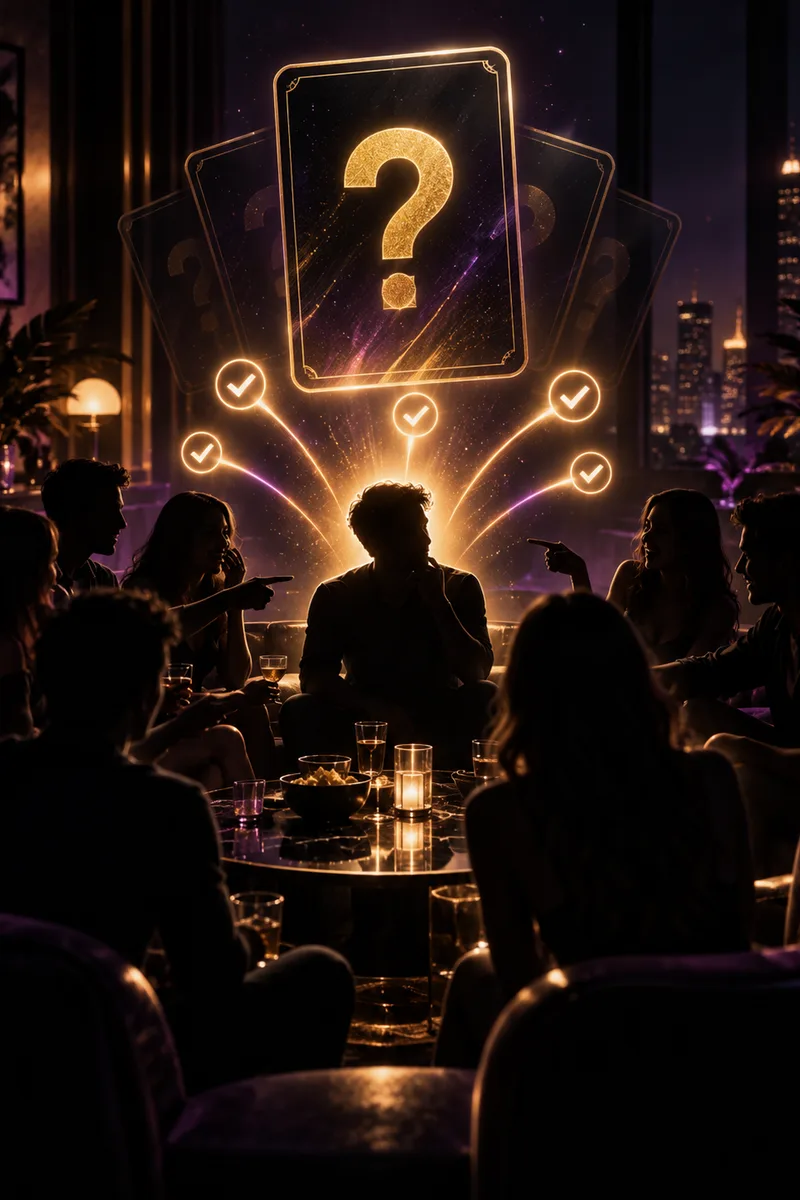
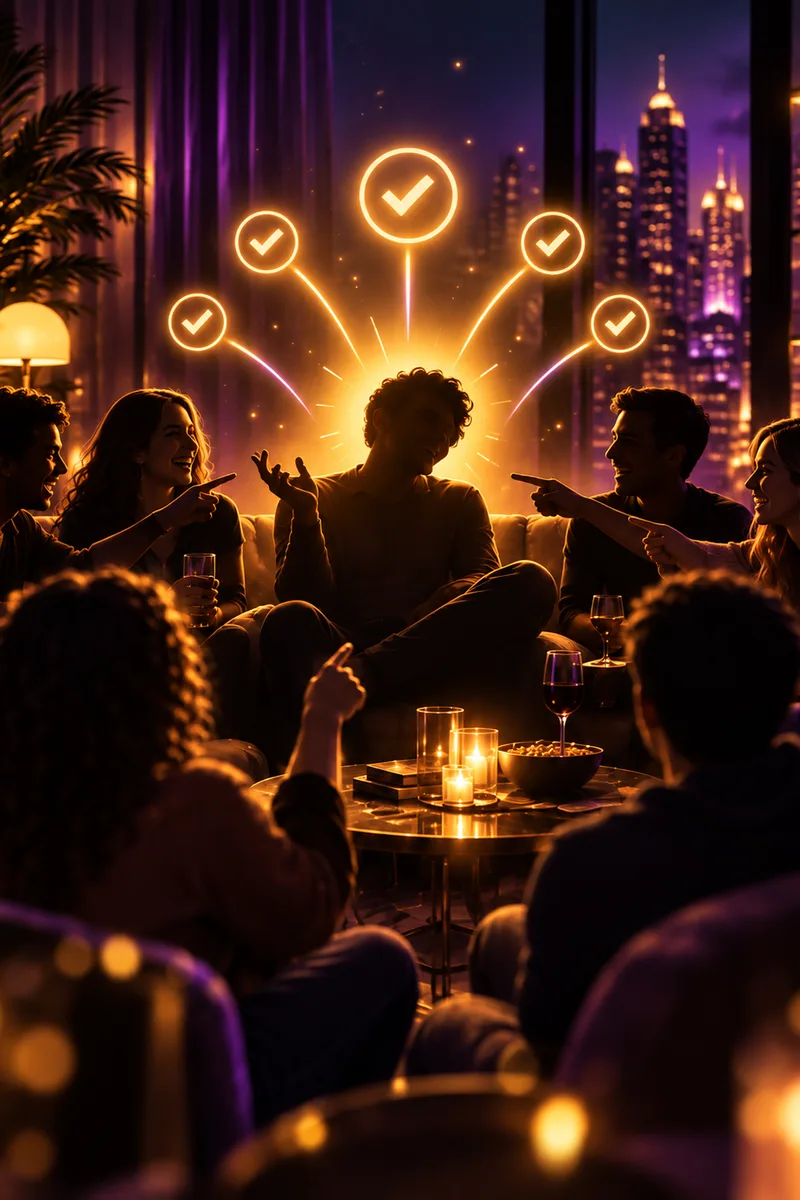
Swap the cover art and let the host open up who voted
Two things the table asked for after playing it.

The cover is the second piece of art — the room mid-accusation rather
than a card floating over it, which is the moment the game actually is.
Same treatment as before: 800x1200 webp, 80 KB, cropped on the sides so
the pointing hands survive. The theme now takes its palette from the art
it sits next to — gold for the light in the middle, violet for the room
around it — instead of the coral and teal picked before there was any
art to match. The per-category accent tint is gone with it: five accents
undo the one the cover just established, and nothing on screen names the
category anyway.

The other is a room setting. A round where the reveal names everybody who
pointed is a different evening from one where it only counts them, and
which evening it is belongs to the host, so `showVoters` is a normal room
setting and it is off by default.

Names are never in the projection while votes are being cast, in either
mode. Watching the accusations arrive live is a third game and not one
anybody asked for — the reveal is what makes the round worth playing.
With the setting off the field is absent rather than an empty list, so
there is nothing on the wire to count.

Claude-Session: https://claude.ai/code/session_01J7pMs7MJQroXNe7jF7opEA

diff --git a/src/client/themes/most-likely-to.css b/src/client/themes/most-likely-to.css
@@ -1,28 +1,30 @@
-/* ─── MOST LIKELY TO — party / accusation (coral + teal) ───────── */
+/* ─── MOST LIKELY TO — party / accusation (gold + violet) ─────── */
 
+/* Taken from the cover art: the gold of the question card, the violet of
+   the room behind it. */
 [data-theme="most-likely-to"] {
   --theme-bg: #120b16;
-  --theme-accent: #ff7a6b;        /* the pointing finger */
-  --theme-glow: #6fe9df;          /* the answer, once it opens */
-  --theme-surface: rgba(40, 20, 44, 0.7);
+  --theme-accent: #f0c257;        /* the question card */
+  --theme-glow: #b98cff;          /* the light in the room */
+  --theme-surface: rgba(40, 22, 48, 0.7);
   --theme-display: "Inter", system-ui, sans-serif;
   --theme-display-tracking: 0;
   --theme-display-transform: none;
 }
 
-/* Warm party glow, cooling towards the corners. */
+/* Warm centre, violet at the edges — the lighting of the cover. */
 [data-theme="most-likely-to"] .atmosphere {
   background-image:
-    radial-gradient(ellipse at 25% 15%, rgba(255, 122, 107, 0.12), transparent 55%),
-    radial-gradient(ellipse at 75% 85%, rgba(111, 233, 223, 0.08), transparent 55%),
-    radial-gradient(ellipse at 50% 50%, rgba(163, 128, 255, 0.05), transparent 70%);
+    radial-gradient(ellipse at 50% 15%, rgba(240, 194, 87, 0.10), transparent 55%),
+    radial-gradient(ellipse at 80% 80%, rgba(185, 140, 255, 0.09), transparent 55%),
+    radial-gradient(ellipse at 15% 65%, rgba(140, 90, 220, 0.06), transparent 70%);
 }
 
 [data-theme="most-likely-to"] .atmosphere::before {
   background:
-    radial-gradient(circle 260px at 12% 12%, rgba(255, 122, 107, 0.10), transparent),
-    radial-gradient(circle 240px at 88% 18%, rgba(111, 233, 223, 0.09), transparent),
-    radial-gradient(circle 240px at 18% 88%, rgba(163, 128, 255, 0.07), transparent);
+    radial-gradient(circle 260px at 12% 12%, rgba(185, 140, 255, 0.09), transparent),
+    radial-gradient(circle 240px at 88% 18%, rgba(240, 194, 87, 0.08), transparent),
+    radial-gradient(circle 240px at 18% 88%, rgba(185, 140, 255, 0.07), transparent);
   animation: mlt-lights 16s ease-in-out infinite;
 }
 
@@ -31,13 +33,9 @@
   50%      { opacity: 1;    transform: translate(-0.5%, 0.4%); }
 }
 
-/* The category tints the accent, so a round of Chaos does not look like a
-   round about school. The glow stays put — that is the reveal's colour. */
-[data-theme="most-likely-to"] .mlt[data-category="funny"]      { --theme-accent: #f3d77a; }
-[data-theme="most-likely-to"] .mlt[data-category="friendship"] { --theme-accent: #ff9ec4; }
-[data-theme="most-likely-to"] .mlt[data-category="school"]     { --theme-accent: #7ab6ff; }
-[data-theme="most-likely-to"] .mlt[data-category="daily"]      { --theme-accent: #8fe3a8; }
-[data-theme="most-likely-to"] .mlt[data-category="chaos"]      { --theme-accent: #ff7a6b; }
+/* The category is carried on `.mlt[data-category]` and deliberately not
+   painted: five accents would undo the one the cover just established, and
+   nothing on the screen names the category anyway. */
 
 @media (prefers-reduced-motion: reduce) {
   [data-theme="most-likely-to"] .atmosphere::before { animation: none; }

diff --git a/tests/e2e/most-likely-to.spec.ts b/tests/e2e/most-likely-to.spec.ts
@@ -125,3 +125,64 @@ test("most likely to: a phone that reloads mid-round comes back to the round", a
   await ctx.close()
   await hostCtx.close()
 })
+
+test("most likely to: the host can open the names up, and they stay shut until the reveal", async ({ browser }) => {
+  const hostCtx = await browser.newContext()
+  const hostPage = await hostCtx.newPage()
+  const code = await createRoom(hostPage, { theme: "most-likely-to", hostName: "Host", hostCharacter: "ace" })
+
+  const ctx = await browser.newContext()
+  const page = await ctx.newPage()
+  await joinAs(page, code, "Ada", "ruby")
+
+  // The setting is a plain room setting, so it is chosen before the game runs.
+  await hostPage.locator("#setting-showVoters").setChecked(true)
+  await hostPage.click("#saveSettingsBtn")
+  await expect(hostPage.locator("#setting-showVoters")).toBeChecked()
+
+  await hostPage.click("#startGameBtn")
+  await expect(page.locator(".mlt-target").first()).toBeVisible({ timeout: PHASE_TIMEOUT })
+
+  // Still being cast: nothing on screen says who has pointed where.
+  await page.locator(".mlt-target", { hasText: "Host" }).click()
+  await expect(page.locator(".mlt-bar-voters")).toHaveCount(0)
+
+  await hostPage.locator(".mlt-target", { hasText: "Ada" }).click()
+
+  // Opened: every row that took a vote names who cast it.
+  for (const p of [hostPage, page]) {
+    await expect(p.locator(".mlt-bars")).toBeVisible({ timeout: PHASE_TIMEOUT })
+    // Matched on the name cell: a plain hasText also hits the row whose voter
+    // line happens to mention the same person.
+    await expect(p.locator('.mlt-bar:has(.mlt-bar-name:text-is("Host")) .mlt-bar-voters')).toContainText("Ada")
+    await expect(p.locator('.mlt-bar:has(.mlt-bar-name:text-is("Ada")) .mlt-bar-voters')).toContainText("Host")
+  }
+
+  await ctx.close()
+  await hostCtx.close()
+})
+
+test("most likely to: with the setting off the reveal never names a voter", async ({ browser }) => {
+  const hostCtx = await browser.newContext()
+  const hostPage = await hostCtx.newPage()
+  const code = await createRoom(hostPage, { theme: "most-likely-to", hostName: "Host", hostCharacter: "ace" })
+
+  const ctx = await browser.newContext()
+  const page = await ctx.newPage()
+  await joinAs(page, code, "Ada", "ruby")
+
+  await expect(hostPage.locator("#setting-showVoters")).not.toBeChecked()
+  await hostPage.click("#startGameBtn")
+
+  await expect(page.locator(".mlt-target").first()).toBeVisible({ timeout: PHASE_TIMEOUT })
+  await page.locator(".mlt-target", { hasText: "Host" }).click()
+  await hostPage.locator(".mlt-target", { hasText: "Ada" }).click()
+
+  for (const p of [hostPage, page]) {
+    await expect(p.locator(".mlt-bars")).toBeVisible({ timeout: PHASE_TIMEOUT })
+    await expect(p.locator(".mlt-bar-voters")).toHaveCount(0)
+  }
+
+  await ctx.close()
+  await hostCtx.close()
+})

diff --git a/tests/unit/domain/most-likely-to.test.ts b/tests/unit/domain/most-likely-to.test.ts
@@ -312,12 +312,50 @@ describe("counting the round", () => {
     expect(result.results.every(r => r.percentage === 0)).toBe(true)
   })
 
+  it("says how many pointed and never who, unless the host asked for names", () => {
+    const secret = tally(resultRoom([["p1", "p2"], ["p3", "p2"]]))
+    expect(secret.results.every(r => r.voters === undefined)).toBe(true)
+    // The field is absent, not an empty list that leaks a count of nothing.
+    expect(JSON.stringify(secret)).not.toContain("voters")
+  })
+
+  it("names the voters once the host turns showVoters on", () => {
+    const room = resultRoom([["p1", "p2"], ["p3", "p2"], ["p2", "p1"]])
+    const named = tally({ ...room, settings: { ...room.settings, showVoters: true } })
+
+    const byId = new Map(named.results.map(r => [r.playerId, r.voters]))
+    expect(byId.get("p2")).toEqual(["Ali", "Morinji"])
+    expect(byId.get("p1")).toEqual(["Mahmud"])
+    // Everybody carries the field, so a nil row is an empty list, not a gap.
+    expect(byId.get("p3")).toEqual([])
+  })
+
   it("drops a vote cast for somebody who has since left the room", () => {
     const room = resultRoom([["p1", "p2"], ["p3", "gone"]])
     const result = tally(room)
 
     expect(result.totalVotes).toBe(1)
     expect(result.winnerPlayerIds).toEqual(["p2"])
+  })
+})
+
+describe("names stay sealed until the reveal", () => {
+  it("keeps the voters out of the voting screen even with showVoters on", async () => {
+    const h = await harness(mkRoom({ settings: { votingSeconds: 20, roundCount: 5, showVoters: true } }))
+    const seq = await atVoting(h)
+    await submitAction(h.deps, "MLT01", "p1", seq, { type: "vote", target: "p2" })
+
+    // A round the table can watch being cast is not the same game.
+    const shown = await h.viewFor("p3")
+    expect(shown.kind).toBe("voting")
+    // Names are on this screen as buttons; what must not be here is which of
+    // them has already pointed, and at whom.
+    expect(JSON.stringify(shown)).not.toContain("voters")
+    expect(shown).toMatchObject({ myVote: null, votedCount: 1 })
+
+    await vi.advanceTimersByTimeAsync(VOTING_MS)
+    const opened = await h.viewFor("p3") as MostLikelyToResult
+    expect(opened.results.find(r => r.playerId === "p2")?.voters).toEqual(["Ali"])
   })
 })
 

diff --git a/src/server/games/most-likely-to.ts b/src/server/games/most-likely-to.ts
@@ -100,6 +100,11 @@ function openRound(asked: readonly string[], rng: () => number): MostLikelyToSta
 export function tally(room: Room): MostLikelyToResult {
   const state = stateOf(room)
   const counts = new Map<string, number>(room.players.map(p => [p.id, 0]))
+  const voters = new Map<string, string[]>(room.players.map(p => [p.id, []]))
+  const nameOf = new Map(room.players.map(p => [p.id, p.name]))
+  // Off by default: a round where the table can see who pointed at whom is a
+  // different evening, so the host has to ask for it.
+  const named = room.settings["showVoters"] === true
 
   let totalVotes = 0
   for (const vote of state.votes) {
@@ -108,6 +113,9 @@ export function tally(room: Room): MostLikelyToResult {
     // against a seat that is no longer there.
     if (current === undefined) continue
     counts.set(vote.targetId, current + 1)
+    // A voter who has since left is counted but cannot be named.
+    const voterName = nameOf.get(vote.voterId)
+    if (voterName !== undefined) voters.get(vote.targetId)!.push(voterName)
     totalVotes++
   }
 
@@ -118,7 +126,8 @@ export function tally(room: Room): MostLikelyToResult {
         playerId: p.id,
         playerName: p.name,
         voteCount,
-        percentage: totalVotes === 0 ? 0 : Math.round((voteCount / totalVotes) * 100)
+        percentage: totalVotes === 0 ? 0 : Math.round((voteCount / totalVotes) * 100),
+        ...(named ? { voters: voters.get(p.id) ?? [] } : {})
       }
     })
     .sort((a, b) => b.voteCount - a.voteCount || a.playerName.localeCompare(b.playerName))

diff --git a/src/server/games/catalog.ts b/src/server/games/catalog.ts
@@ -485,7 +485,7 @@ export const GAME_CATALOG: readonly Game[] = [
     // The server keeps the clock, collects the votes and opens them together,
     // so this room runs on the turn engine rather than on a deal of roles.
     turnBased: true,
-    defaultSettings: { votingSeconds: 20, roundCount: 5 },
+    defaultSettings: { votingSeconds: 20, roundCount: 5, showVoters: false },
     title: {
       ku: "کێ زۆرترین ئەگەری هەیە؟",
       ar: "من الأكثر احتمالاً؟",
@@ -550,6 +550,19 @@ export const GAME_CATALOG: readonly Game[] = [
           ar: "عدد الجولات",
           en: "Rounds",
           tr: "Tur Sayısı"
+        }
+      },
+      {
+        // Off means the reveal says how many pointed at somebody and never
+        // who. On means the table sees every name. Two different evenings,
+        // and the host picks which one before the game starts.
+        type: "boolean",
+        key: "showVoters",
+        label: {
+          ku: "دەنگدەران ئاشکرا بکە",
+          ar: "إظهار من صوّت لمن",
+          en: "Show Who Voted",
+          tr: "Kimin Oy Verdiğini Göster"
         }
       }
     ]

diff --git a/src/client/ui/gameStage.ts b/src/client/ui/gameStage.ts
@@ -146,12 +146,20 @@ export function mountGameStage(opts: GameStageOptions): () => void {
       const fill = el("span", { class: "mlt-bar-fill" })
       // Percentage of the votes actually cast, so an empty round draws nothing.
       fill.style.width = `${row.percentage}%`
-      bars.appendChild(el("div", { class: `mlt-bar${isWinner ? " winner" : ""}` }, [
+      const bar = el("div", { class: `mlt-bar${isWinner ? " winner" : ""}` }, [
         avatarOf(byId.get(row.playerId), row.playerName, 36),
         el("span", { class: "mlt-bar-name" }, [row.playerName]),
         el("span", { class: "mlt-bar-track" }, [fill]),
         el("span", { class: "mlt-bar-count" }, [String(row.voteCount)])
-      ]))
+      ])
+      // Only a room whose host asked for names gets them; without the setting
+      // the field is not in the projection at all.
+      if (row.voters !== undefined && row.voters.length > 0) {
+        bar.appendChild(el("span", { class: "mlt-bar-voters" }, [
+          `${t("mltVotedBy")} ${row.voters.join(", ")}`
+        ]))
+      }
+      bars.appendChild(bar)
     }
 
     // The verdict is a full line rather than a badge on the row: a badge has

diff --git a/src/shared/most-likely-to.ts b/src/shared/most-likely-to.ts
@@ -26,6 +26,12 @@ export interface MostLikelyToTally {
   voteCount: number
   /** Of the votes actually cast, rounded. 0 for a round nobody voted in. */
   percentage: number
+  /**
+   * Who pointed at this person. Present only in a room whose host turned
+   * `showVoters` on — otherwise the reveal says how many, never who, and the
+   * field is absent rather than empty.
+   */
+  voters?: string[]
 }
 
 export interface MostLikelyToResult {

diff --git a/src/client/i18n/ku.ts b/src/client/i18n/ku.ts
@@ -248,6 +248,7 @@ const ku: Translations = {
   mltGameOver: "یاری تەواو بوو.",
   mltBackToLobby: "گەڕانەوە بۆ ژوور",
   mltWaitingHost: "چاوەڕوانی هۆست…",
+  mltVotedBy: "دەنگیان دا:",
   errorVoteRejected: "دەنگەکەت نەنێردرا.",
   copyrightRights: "هەموو مافەکان پارێزراون."
 }

diff --git a/src/client/i18n/ar.ts b/src/client/i18n/ar.ts
@@ -248,6 +248,7 @@ const ar: Translations = {
   mltGameOver: "انتهت اللعبة.",
   mltBackToLobby: "العودة إلى الغرفة",
   mltWaitingHost: "بانتظار المضيف…",
+  mltVotedBy: "صوّت له:",
   errorVoteRejected: "لم يتم إرسال صوتك.",
   copyrightRights: "جميع الحقوق محفوظة."
 }

diff --git a/src/client/themes/_base.css b/src/client/themes/_base.css
@@ -4583,3 +4583,12 @@ body.stage-open { overflow: hidden; }
   letter-spacing: 0.08em;
   text-transform: uppercase;
 }
+
+/* Who pointed at this person — only in a room whose host asked for names. */
+.mlt-bar-voters {
+  grid-column: 2 / -1;
+  margin-top: 2px;
+  font-size: var(--type-xs);
+  line-height: 1.4;
+  color: var(--text-muted);
+}

diff --git a/src/client/i18n/en.ts b/src/client/i18n/en.ts
@@ -249,6 +249,7 @@ const en = {
   mltGameOver: "That's the game.",
   mltBackToLobby: "Back to the Room",
   mltWaitingHost: "Waiting for the host…",
+  mltVotedBy: "Voted by",
   errorVoteRejected: "That vote did not go through.",
   copyrightRights: "All rights reserved."
 }

diff --git a/src/client/i18n/tr.ts b/src/client/i18n/tr.ts
@@ -251,6 +251,7 @@ const tr: Translations = {
   mltGameOver: "Oyun bitti.",
   mltBackToLobby: "Odaya Dön",
   mltWaitingHost: "Host bekleniyor…",
+  mltVotedBy: "Oy verenler:",
   errorVoteRejected: "Oy gönderilemedi.",
   copyrightRights: "Tüm hakları saklıdır."
 }
